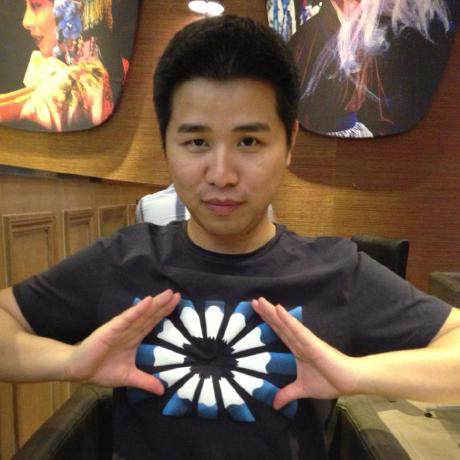
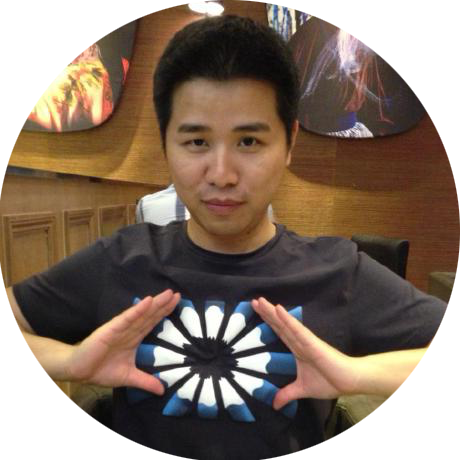
修正顶部头像为圆形。

diff --git a/css/screen.css b/css/screen.css
@@ -1167,8 +1167,8 @@ body>footer #user_bio .inner, .post-footer #user_bio .inner {
     -webkit-tap-highlight-color: rgba(0, 0, 0, 0);
     /*-webkit-filter: grayscale(100%);*/
     /*filter: grayscale(100%);*/
-    border-radius:50%;
-    overflow:hidden;
+    /*border-radius:50%;*/
+    /*overflow:hidden;*/
 }
 #blog_badge:hover {
     -webkit-filter: grayscale(0%);
@@ -1601,15 +1601,15 @@ body.touch.user article .readmore {
     #blog_badge {
         top: 14px;
         right: 10px;
-        width: 43px;
-        height: 43px
+        width: 62px;
+        height: 62px
     }
-    #blog_badge span {
+/*    #blog_badge span {
         top: 9px;
         right: 9px;
         bottom: 9px;
         left: 9px;
-    }
+    }*/
     html[dir=rtl] #blog_badge span {
         margin-left: 0;
         margin-right: 12px
